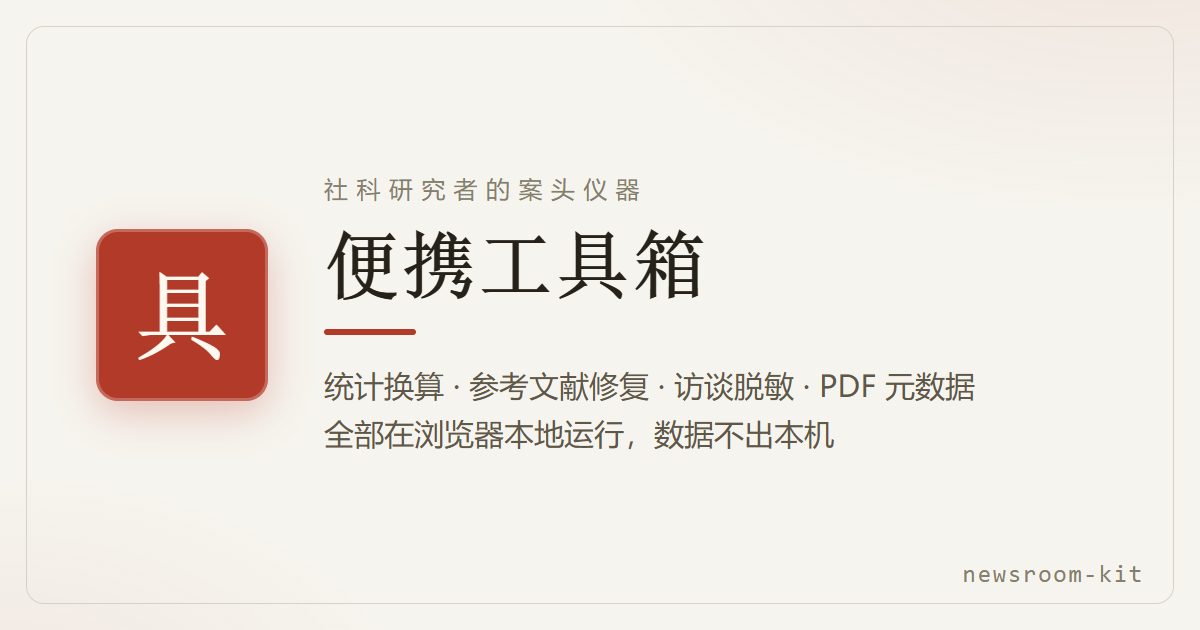
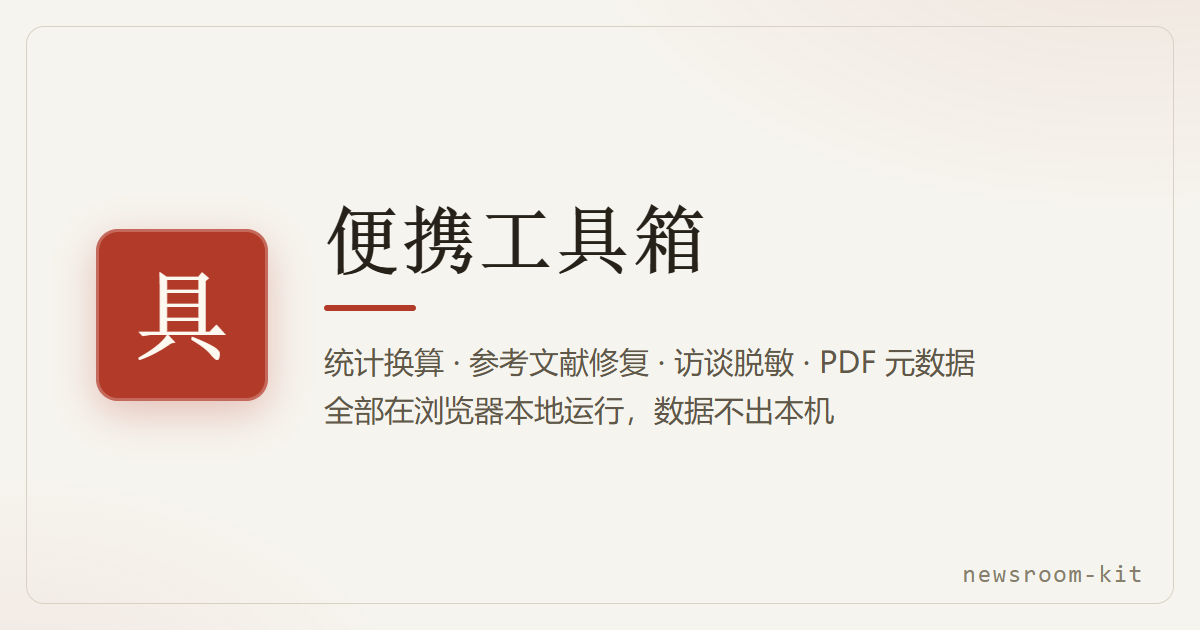
content: 首屏文案改为「纯粹，无广告，不跟踪」，移除「案头仪器」口号
- hero 删除 eyebrow 小字，副标题替换为纯粹/无广告/不跟踪
- 同步更新 title 后缀、og/twitter description、README 首句
- 5 张 OG 分享卡片重新生成（移除口号行）

Changed region(s): [[0.2467, 0.2714, 0.8325, 0.7238]]

diff --git a/index.html b/index.html
@@ -3,7 +3,7 @@
 <head>
 <meta charset="utf-8" />
 <meta name="viewport" content="width=device-width, initial-scale=1" />
-<title>newsroom-kit · 便携工具箱 — 社科研究者的案头仪器</title>
+<title>newsroom-kit · 便携工具箱 | 纯粹，无广告，不跟踪</title>
 <meta name="description" content="社科研究者与新闻编辑的便携工具箱。统计换算、参考文献修复、访谈脱敏、PDF 元数据——按场景组合，全部在浏览器本地运行，数据不出本机。" />
 <meta name="keywords" content="社科工具箱,在线统计,p值计算,效应量,参考文献,BibTeX,访谈脱敏,匿名化,PDF元数据,学术工具" />
 <meta name="author" content="icgma" />
@@ -13,13 +13,13 @@
 <meta property="og:type" content="website" />
 <meta property="og:site_name" content="newsroom-kit 便携工具箱" />
 <meta property="og:title" content="newsroom-kit · 便携工具箱" />
-<meta property="og:description" content="社科研究者的案头仪器：统计换算、参考文献修复、访谈脱敏、PDF 元数据。全部本地运行，数据不出本机。" />
+<meta property="og:description" content="纯粹，无广告，不跟踪。统计换算、参考文献修复、访谈脱敏、PDF 元数据，全部本地运行，数据不出本机。" />
 <meta property="og:url" content="https://icgma.github.io/newsroom-kit/" />
 <meta property="og:image" content="https://icgma.github.io/newsroom-kit/assets/og-cover.png" />
 <meta property="og:locale" content="zh_CN" />
 <meta name="twitter:card" content="summary_large_image" />
 <meta name="twitter:title" content="newsroom-kit · 便携工具箱" />
-<meta name="twitter:description" content="社科研究者的案头仪器：统计换算、参考文献修复、访谈脱敏、PDF 元数据。全部本地运行。" />
+<meta name="twitter:description" content="纯粹，无广告，不跟踪。统计换算、参考文献修复、访谈脱敏、PDF 元数据，全部本地运行。" />
 <meta name="twitter:image" content="https://icgma.github.io/newsroom-kit/assets/og-cover.png" />
 <script type="application/ld+json">
 {
@@ -61,12 +61,8 @@
 
   <main class="main">
     <div class="hero">
-      <p class="eyebrow">社科研究者的案头仪器</p>
       <h1 class="hero-title">便携工具箱</h1>
-      <p class="hero-lede">
-        写论文、做访谈、核数据时反复出现的琐碎操作，收进了一个个独立的小工具。
-        全部在浏览器本地运行，<strong>数据不出本机</strong>。
-      </p>
+      <p class="hero-lede">纯粹，无广告，不跟踪。</p>
     </div>
 
     <div class="controls">

diff --git a/tools/og-card.html b/tools/og-card.html
@@ -34,12 +34,6 @@
     box-shadow: inset 0 0 0 3px rgba(253,249,240,.25), 0 12px 40px rgba(178,58,41,.28);
   }
   .text { min-width: 0; }
-  .eyebrow {
-    font-size: 24px; letter-spacing: .35em;
-    color: #877e6c;
-    margin: 0 0 18px;
-    font-family: -apple-system, "PingFang SC", "Microsoft YaHei", sans-serif;
-  }
   h1 {
     margin: 0 0 22px;
     font-size: 74px; font-weight: 600;
@@ -64,7 +58,6 @@
   <div class="inner">
     <div class="seal" id="seal">具</div>
     <div class="text">
-      <p class="eyebrow">社科研究者的案头仪器</p>
       <h1 id="title">便携工具箱</h1>
       <div class="rule" aria-hidden="true"></div>
       <p class="desc" id="desc">统计换算 · 参考文献修复 · 访谈脱敏 · PDF 元数据<br>全部在浏览器本地运行，数据不出本机</p>

diff --git a/hub.css b/hub.css
@@ -494,7 +494,7 @@ kbd {
 .main { max-width: 1060px; padding-bottom: 40px; }
 
 /* ── 首屏 ─────────────────────────────────────────────────── */
-.hero { text-align: center; padding: 44px 16px 30px; }
+.hero { text-align: center; padding: 58px 16px 32px; }
 .eyebrow { margin: 0 0 10px; }
 .hero-title {
   margin: 0 0 12px;

diff --git a/README.md b/README.md
@@ -1,6 +1,6 @@
 # newsroom-kit · 便携工具箱
 
-社科研究者的案头仪器。每个工具都是独立的纯前端页面（HTML + CSS + JS），零构建、零后端，全部在浏览器本地运行——**数据不出本机**。
+纯粹，无广告，不跟踪。每个工具都是独立的纯前端页面（HTML + CSS + JS），零构建、零后端，全部在浏览器本地运行——**数据不出本机**。
 
 ## 本仓库自带的工具（随仓库一起部署）
 
